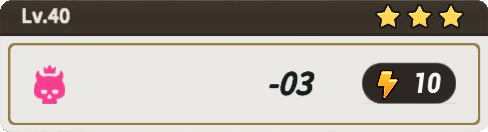
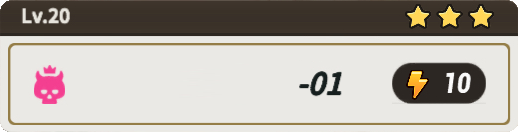
ロングバナー調整

diff --git a/MBB.js b/MBB.js
@@ -42,7 +42,7 @@ function addTextToImage(){
     img.src = dataUrl;
     ctx.clearRect(0, 0, 428, 132);
 
-    
+
     var img = document.getElementById('longimage1');
     var canvas = document.getElementById('longcanvas1');
     var ctx = canvas.getContext('2d');
@@ -51,7 +51,7 @@ function addTextToImage(){
     ctx.drawImage(img, 0, 0, img.width, img.height);
     ctx.font = 'bold 30px Arial';
     ctx.fillStyle = 'black';
-    ctx.fillText(text, 205 - (text.length * 30), 95);
+    ctx.fillText(text, 295 - (text.length * 30), 95);
     var dataUrl = canvas.toDataURL('image/png');
     img.src = dataUrl;
     ctx.clearRect(0, 0, 488, 132);
@@ -65,7 +65,7 @@ function addTextToImage(){
     ctx.drawImage(img, 0, 0, img.width, img.height);
     ctx.font = 'bold 30px Arial';
     ctx.fillStyle = 'black';
-    ctx.fillText(text, 205 - (text.length * 30), 95);
+    ctx.fillText(text, 295 - (text.length * 30), 95);
     var dataUrl = canvas.toDataURL('image/png');
     img.src = dataUrl;
     ctx.clearRect(0, 0, 488, 132);
@@ -79,7 +79,7 @@ function addTextToImage(){
     ctx.drawImage(img, 0, 0, img.width, img.height);
     ctx.font = 'bold 30px Arial';
     ctx.fillStyle = 'black';
-    ctx.fillText(text, 205 - (text.length * 30), 95);
+    ctx.fillText(text, 295 - (text.length * 30), 95);
     var dataUrl = canvas.toDataURL('image/png');
     img.src = dataUrl;
     ctx.clearRect(0, 0, 488, 132);
